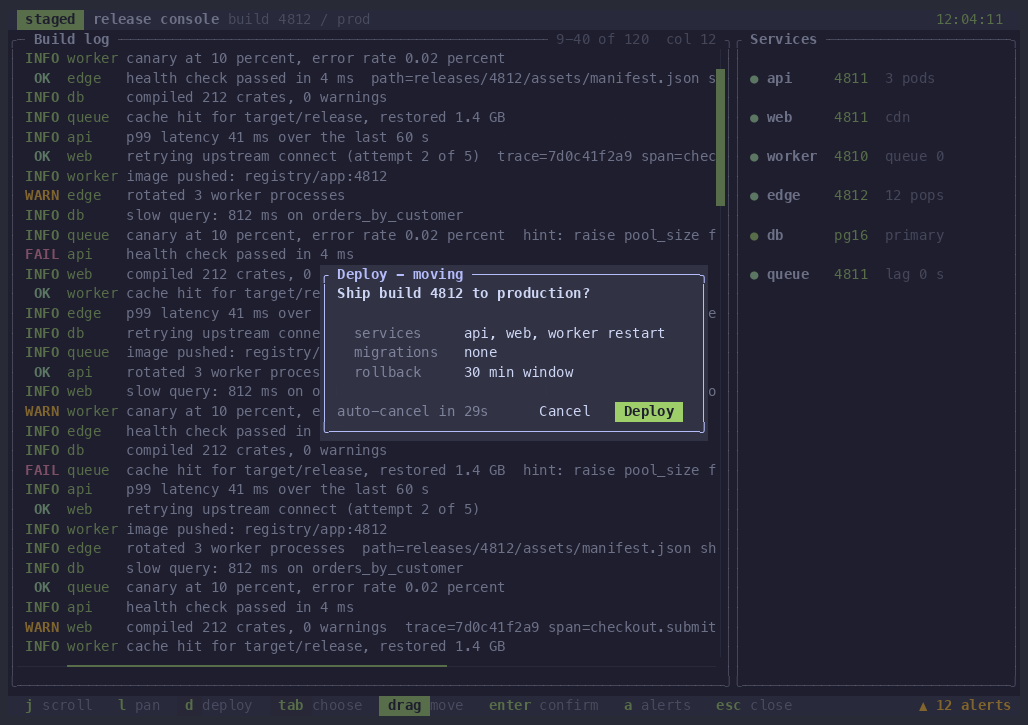
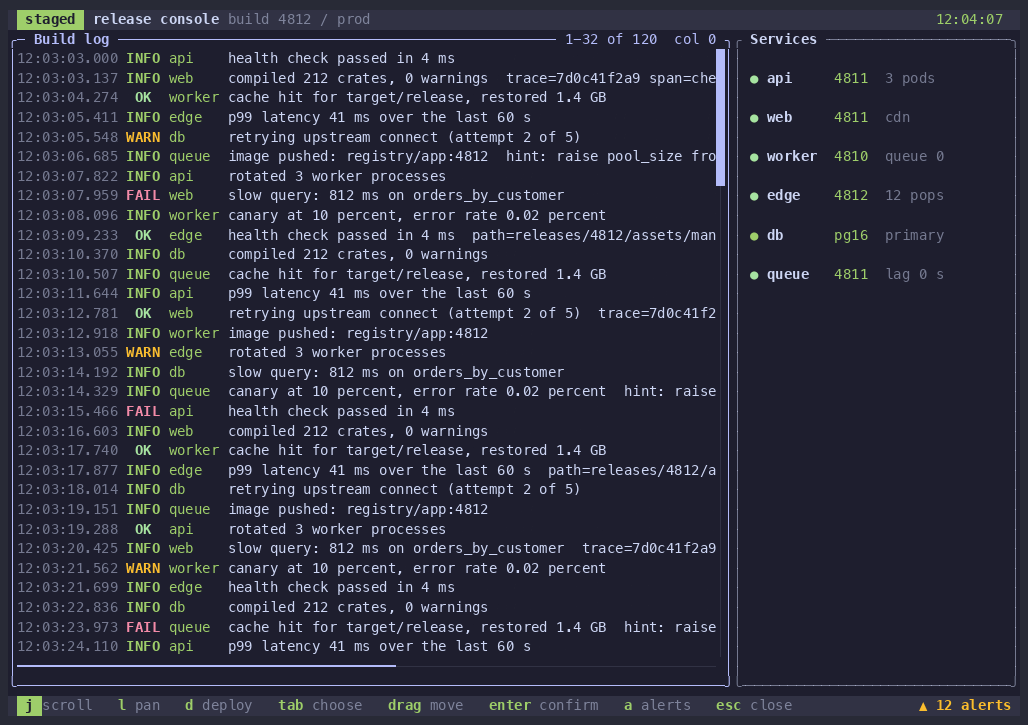
Re-record the Popup and ScrollView showcase inside 12 seconds

diff --git a/benches/README.md b/benches/README.md
@@ -20,7 +20,7 @@ The bench targets live in `benches/` and the tests in `tests/`. Run everything w
 `widget_suite` compares each lunatui widget with its ratatui 0.30.2 equivalent on identical data. A case is one entry in `widget_suite::CASES`: a lunatui drawing function, the equivalent ratatui drawing function, and a flag saying whether the performance gate applies. Every case runs at 80×24 and 200×60 with a `tick` that changes the content a little each frame (scroll offset, ratio, selected tab), so the full-frame scope has a real diff to do.
 
 - **Parity first.** `tests/widget_suite_parity.rs` renders both sides and compares every cell (symbol, foreground, background, bold, dim) at several ticks. A case marked `Parity::Exact` must match cell for cell, so both sides do the same visible work. A case that cannot match says why in `Parity::Documented` and is reported but never gated.
-- **Same work, both sides.** Both sides start each render by clearing the whole area and painting the base style, use explicit RGB styles, and draw the same text. Ratatui's `style()` paints blank cells too, so the lunatui side applies the same full-area style before the widget. Virtualized widgets (table, list) draw from a borrowed source on the lunatui side and from the visible slice on the ratatui side, which is how each library is used. The `popup` and `scrollview` cases compare with `tui-popup` 0.7.7 and `tui-scrollview` 0.6.8, which are dependencies of this crate only. Both libraries center the popup the same way when the margin is even; with an odd margin ratatui puts the spare cell before the popup and lunatui after, as `Flex::Center` already does, so the dialog leaves an even margin at both sizes. The scroll view runs with scrollbars hidden, because the two libraries draw different scrollbars.
+- **Same work, both sides.** Both sides start each render by clearing the whole area and painting the base style, use explicit RGB styles, and draw the same text. Ratatui's `style()` paints blank cells too, so the lunatui side applies the same full-area style before the widget. Virtualized widgets (table, list) draw from a borrowed source on the lunatui side and from the visible slice on the ratatui side, which is how each library is used. The `popup` and `scrollview` cases compare with `tui-popup` 0.7.7 and `tui-scrollview` 0.6.8, which are dependencies of this crate only. Both libraries center the popup the same way when the margin is even; with an odd margin ratatui puts the spare cell before the popup and lunatui after, as `Flex::Center` already does, so the dialog leaves an even margin at both sizes. The scroll view runs with scrollbars hidden, because the two libraries draw different scrollbars. Side-by-side recordings of the release console on both libraries, from `scripts/record-widget.sh` (`CASE=popup-scrollview`): [80×24](../docs/media/popup-scrollview-80x24-truecolor.mp4), [200×60](../docs/media/popup-scrollview-200x60-truecolor.mp4), and 16 colors at [80×24](../docs/media/popup-scrollview-80x24-ansi16.mp4) and [200×60](../docs/media/popup-scrollview-200x60-ansi16.mp4).
 - **Two scopes.** *Render* clears and draws into a reused `Grid` or `Buffer`. *Frame* draws, diffs, encodes and writes: lunatui runs `Encoder::encode_diff` into a counting sink, and ratatui runs `Terminal::draw` on a line-buffered counting sink with a fixed viewport. Terminal-emulator rendering is not measured.
 - **Same machine, release builds.** Both sides run in one process, one after the other, and each is the median of 41 samples of 50 iterations after a warm-up. Allocations per frame come from `CountingAllocator` over 100 frames; bytes and `write()` calls per frame come from the sink.
 - **The gate.** A gated case fails `cargo xtask bench` when its frame ratio (lunatui over ratatui) is above 1.05 or it allocates more per frame than ratatui. The render-only scope is reported, not gated. Widgets that predate the gate are *tracked*: reported, not failing. A new widget is added with `gated: true`.

diff --git a/README.md b/README.md
@@ -145,5 +145,4 @@ A release console. The build log is a `ScrollView` wider and taller than its pan
 
 ![Popup and ScrollView: a release console in the dark theme](docs/media/popup-scrollview.gif)
 
-Screenshot: [docs/media/popup-scrollview.png](docs/media/popup-scrollview.png). Recorded with `scripts/record-showcase.sh` (`CASE=popup-scrollview`, 120×36, dark, 10 seconds at 30 fps). Side by side with ratatui, `tui-popup` and `tui-scrollview` from `scripts/record-widget.sh`: [80×24](docs/media/popup-scrollview-80x24-truecolor.mp4), [200×60](docs/media/popup-scrollview-200x60-truecolor.mp4), and 16 colors at [80×24](docs/media/popup-scrollview-80x24-ansi16.mp4) and [200×60](docs/media/popup-scrollview-200x60-ansi16.mp4).
-
+Screenshot: [docs/media/popup-scrollview.png](docs/media/popup-scrollview.png). Recorded with `scripts/record-showcase.sh` (`CASE=popup-scrollview`, 120×36 at 2× scale, 240 frames at 30 fps, dark, lossless animated WebP, about 10 seconds).
